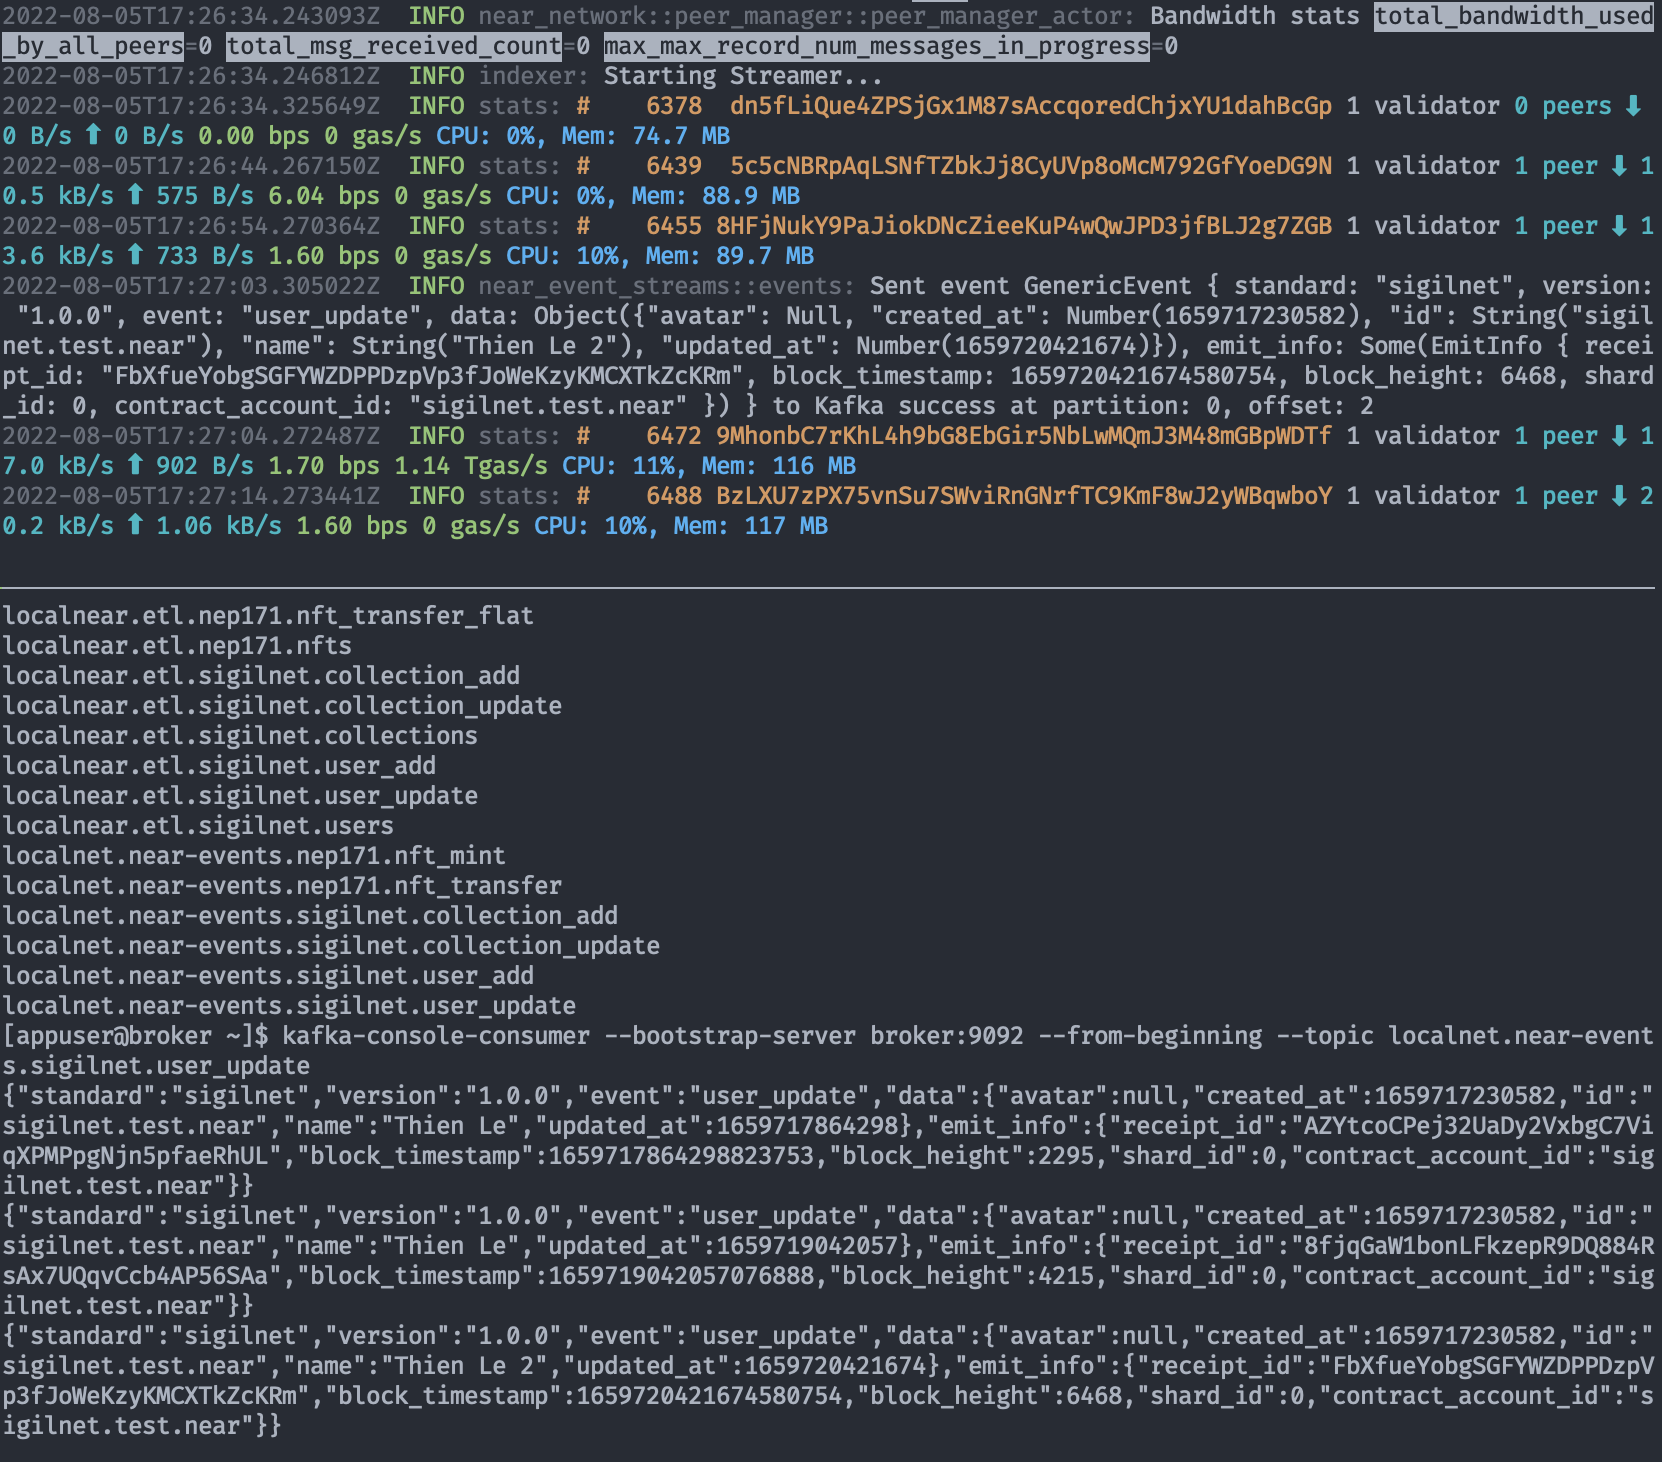
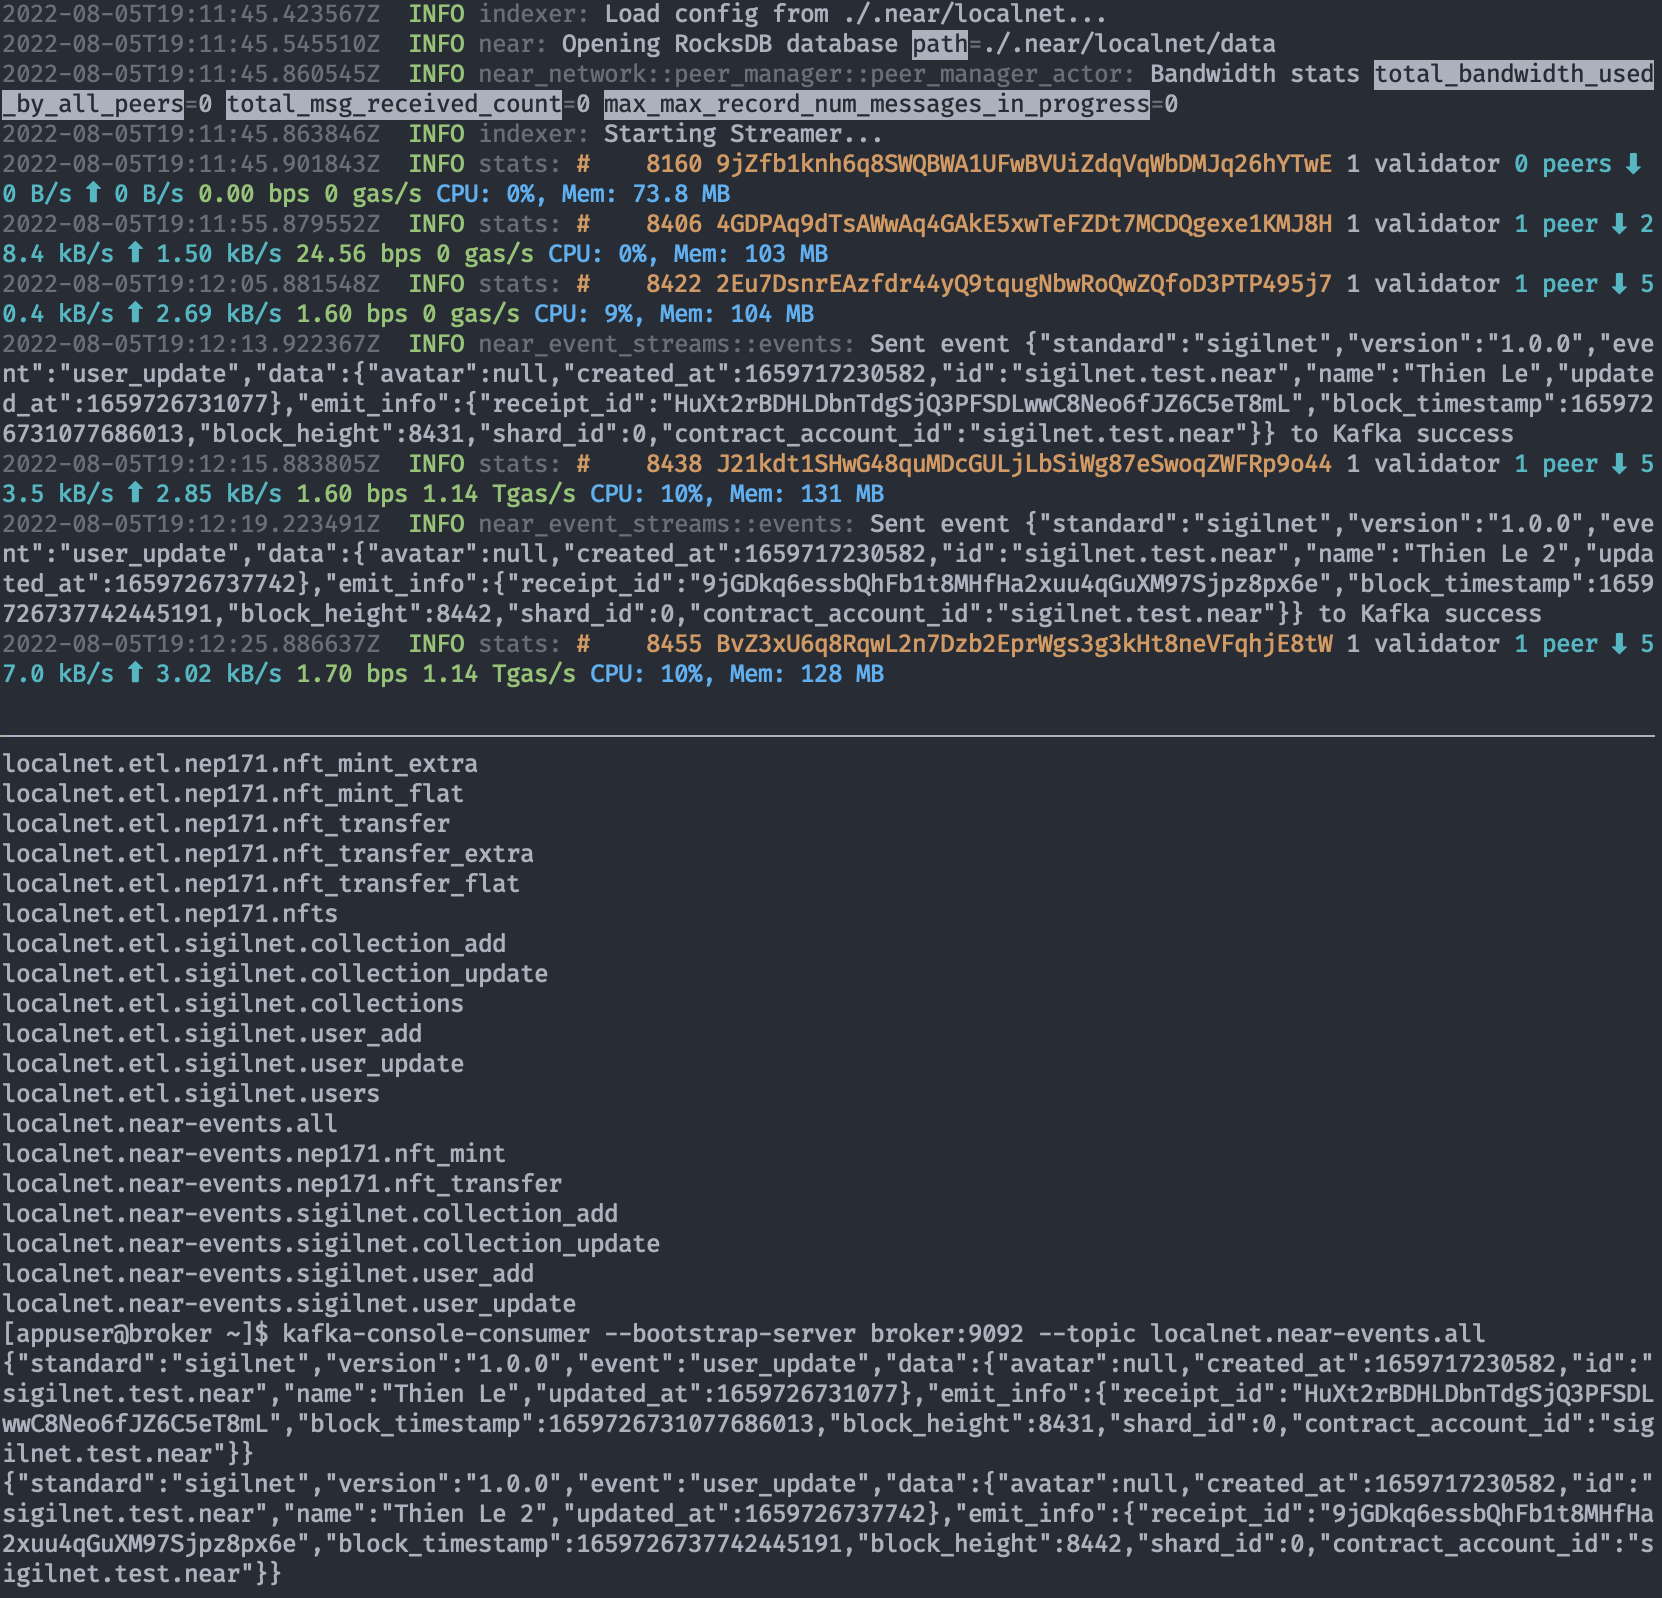
[events] event logs [docs] update image

Changed region(s): [[0.0, 0.0, 1.0, 1.0]]

diff --git a/src/events.rs b/src/events.rs
@@ -85,11 +85,7 @@ pub async fn send_event(
         .await;
 
     let delivery_status = delivery_status.map_err(|e| e.0);
-    let (partition, offset) = delivery_status?;
-    info!(
-        "Sent event {} to Kafka success at partition: {}, offset: {}",
-        payload, partition, offset
-    );
+    delivery_status?;
 
     Ok(())
 }
@@ -147,6 +143,8 @@ pub async fn store_events(
             &event_payload,
         )
         .await?;
+
+        info!("Sent event {} to Kafka success", &event_payload);
     }
 
     Ok(())
